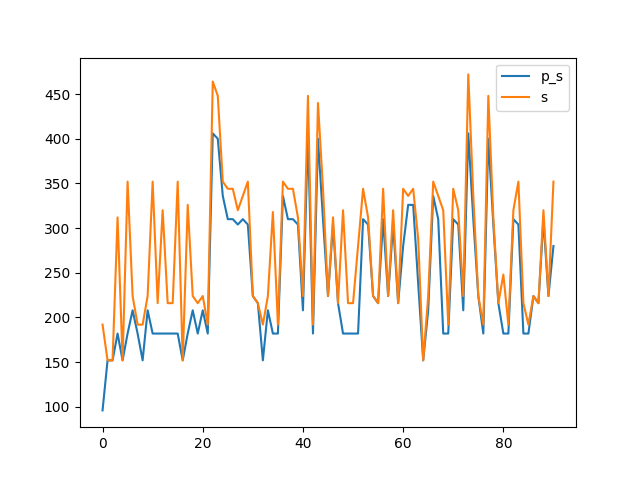
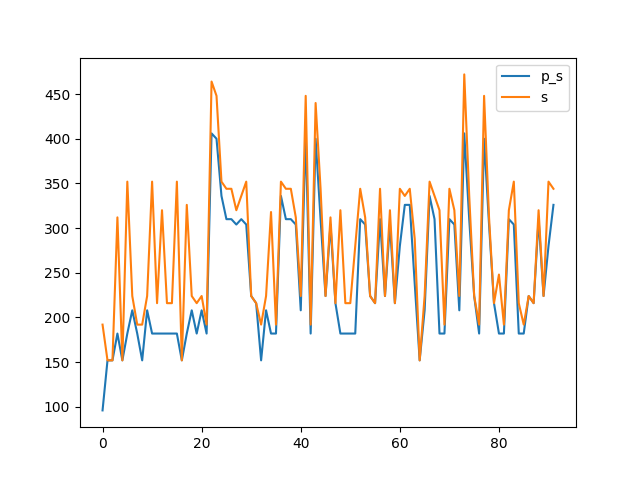
0x005B

diff --git a/benchmark.md b/benchmark.md
@@ -180,16 +180,18 @@ Synthesising 0x0059 pexact:224 r=3 exact:224 r=3
 
 Synthesising 0x005A pexact:280 r=4 exact:352 r=4
 
+Synthesising 0x005B pexact:326 r=5 exact:344 r=4
+
 ```mermaid
 xychart-beta
     title "Comparison powertwoexact twoexact"
-    x-axis [0, 1, 2, 3, 4, 5, 6, 7, 8, 9, 10, 11, 12, 13, 14, 15, 16, 17, 18, 19, 20, 21, 22, 23, 24, 25, 26, 27, 28, 29, 30, 31, 32, 33, 34, 35, 36, 37, 38, 39, 40, 41, 42, 43, 44, 45, 46, 47, 48, 49, 50, 51, 52, 53, 54, 55, 56, 57, 58, 59, 60, 61, 62, 63, 64, 65, 66, 67, 68, 69, 70, 71, 72, 73, 74, 75, 76, 77, 78, 79, 80, 81, 82, 83, 84, 85, 86, 87, 88, 89, 90]
+    x-axis [0, 1, 2, 3, 4, 5, 6, 7, 8, 9, 10, 11, 12, 13, 14, 15, 16, 17, 18, 19, 20, 21, 22, 23, 24, 25, 26, 27, 28, 29, 30, 31, 32, 33, 34, 35, 36, 37, 38, 39, 40, 41, 42, 43, 44, 45, 46, 47, 48, 49, 50, 51, 52, 53, 54, 55, 56, 57, 58, 59, 60, 61, 62, 63, 64, 65, 66, 67, 68, 69, 70, 71, 72, 73, 74, 75, 76, 77, 78, 79, 80, 81, 82, 83, 84, 85, 86, 87, 88, 89, 90, 91]
     y-axis "Switching Activity" 0-->472
-    line [96, 152, 152, 182, 152, 182, 208, 182, 152, 208, 182, 182, 182, 182, 182, 182, 152, 182, 208, 182, 208, 182, 406, 400, 336, 310, 310, 304, 310, 304, 224, 216, 152, 208, 182, 182, 336, 310, 310, 304, 208, 406, 182, 400, 310, 224, 304, 216, 182, 182, 182, 182, 310, 304, 224, 216, 310, 224, 304, 216, 280, 326, 326, 238, 152, 208, 336, 310, 182, 182, 310, 304, 208, 406, 310, 224, 182, 400, 304, 216, 182, 182, 310, 304, 182, 182, 224, 216, 310, 224, 280]
-    line [192, 152, 152, 312, 152, 352, 224, 192, 192, 224, 352, 216, 320, 216, 216, 352, 152, 326, 224, 216, 224, 192, 464, 448, 352, 344, 344, 320, 336, 352, 224, 216, 192, 224, 318, 192, 352, 344, 344, 312, 224, 448, 192, 440, 344, 224, 312, 216, 320, 216, 216, 280, 344, 312, 224, 216, 344, 224, 320, 216, 344, 336, 344, 288, 152, 224, 352, 336, 320, 192, 344, 320, 224, 472, 336, 224, 192, 448, 312, 216, 248, 192, 320, 352, 216, 192, 224, 216, 320, 224, 352]
-    line [242.43956043956044, 242.43956043956044, 242.43956043956044, 242.43956043956044, 242.43956043956044, 242.43956043956044, 242.43956043956044, 242.43956043956044, 242.43956043956044, 242.43956043956044, 242.43956043956044, 242.43956043956044, 242.43956043956044, 242.43956043956044, 242.43956043956044, 242.43956043956044, 242.43956043956044, 242.43956043956044, 242.43956043956044, 242.43956043956044, 242.43956043956044, 242.43956043956044, 242.43956043956044, 242.43956043956044, 242.43956043956044, 242.43956043956044, 242.43956043956044, 242.43956043956044, 242.43956043956044, 242.43956043956044, 242.43956043956044, 242.43956043956044, 242.43956043956044, 242.43956043956044, 242.43956043956044, 242.43956043956044, 242.43956043956044, 242.43956043956044, 242.43956043956044, 242.43956043956044, 242.43956043956044, 242.43956043956044, 242.43956043956044, 242.43956043956044, 242.43956043956044, 242.43956043956044, 242.43956043956044, 242.43956043956044, 242.43956043956044, 242.43956043956044, 242.43956043956044, 242.43956043956044, 242.43956043956044, 242.43956043956044, 242.43956043956044, 242.43956043956044, 242.43956043956044, 242.43956043956044, 242.43956043956044, 242.43956043956044, 242.43956043956044, 242.43956043956044, 242.43956043956044, 242.43956043956044, 242.43956043956044, 242.43956043956044, 242.43956043956044, 242.43956043956044, 242.43956043956044, 242.43956043956044, 242.43956043956044, 242.43956043956044, 242.43956043956044, 242.43956043956044, 242.43956043956044, 242.43956043956044, 242.43956043956044, 242.43956043956044, 242.43956043956044, 242.43956043956044, 242.43956043956044, 242.43956043956044, 242.43956043956044, 242.43956043956044, 242.43956043956044, 242.43956043956044, 242.43956043956044, 242.43956043956044, 242.43956043956044, 242.43956043956044, 242.43956043956044]
-    line [277.9340659340659, 277.9340659340659, 277.9340659340659, 277.9340659340659, 277.9340659340659, 277.9340659340659, 277.9340659340659, 277.9340659340659, 277.9340659340659, 277.9340659340659, 277.9340659340659, 277.9340659340659, 277.9340659340659, 277.9340659340659, 277.9340659340659, 277.9340659340659, 277.9340659340659, 277.9340659340659, 277.9340659340659, 277.9340659340659, 277.9340659340659, 277.9340659340659, 277.9340659340659, 277.9340659340659, 277.9340659340659, 277.9340659340659, 277.9340659340659, 277.9340659340659, 277.9340659340659, 277.9340659340659, 277.9340659340659, 277.9340659340659, 277.9340659340659, 277.9340659340659, 277.9340659340659, 277.9340659340659, 277.9340659340659, 277.9340659340659, 277.9340659340659, 277.9340659340659, 277.9340659340659, 277.9340659340659, 277.9340659340659, 277.9340659340659, 277.9340659340659, 277.9340659340659, 277.9340659340659, 277.9340659340659, 277.9340659340659, 277.9340659340659, 277.9340659340659, 277.9340659340659, 277.9340659340659, 277.9340659340659, 277.9340659340659, 277.9340659340659, 277.9340659340659, 277.9340659340659, 277.9340659340659, 277.9340659340659, 277.9340659340659, 277.9340659340659, 277.9340659340659, 277.9340659340659, 277.9340659340659, 277.9340659340659, 277.9340659340659, 277.9340659340659, 277.9340659340659, 277.9340659340659, 277.9340659340659, 277.9340659340659, 277.9340659340659, 277.9340659340659, 277.9340659340659, 277.9340659340659, 277.9340659340659, 277.9340659340659, 277.9340659340659, 277.9340659340659, 277.9340659340659, 277.9340659340659, 277.9340659340659, 277.9340659340659, 277.9340659340659, 277.9340659340659, 277.9340659340659, 277.9340659340659, 277.9340659340659, 277.9340659340659, 277.9340659340659]
-    bar [80, 60, 60, 80, 60, 80, 80, 80, 60, 80, 80, 80, 80, 80, 80, 80, 60, 80, 80, 80, 80, 80, 120, 120, 100, 100, 100, 100, 100, 100, 60, 60, 60, 80, 80, 80, 100, 100, 100, 100, 80, 120, 80, 120, 100, 60, 100, 60, 80, 80, 80, 80, 100, 100, 60, 60, 100, 60, 100, 60, 80, 100, 100, 100, 60, 80, 100, 100, 80, 80, 100, 100, 80, 120, 100, 60, 80, 120, 100, 60, 80, 80, 100, 100, 80, 80, 60, 60, 100, 60, 80]
-    bar [80, 60, 60, 80, 60, 80, 60, 60, 60, 60, 80, 60, 80, 60, 60, 80, 60, 80, 60, 60, 60, 60, 100, 100, 80, 80, 80, 80, 80, 80, 60, 60, 60, 60, 80, 60, 80, 80, 80, 80, 60, 100, 60, 100, 80, 60, 80, 60, 80, 60, 60, 80, 80, 80, 60, 60, 80, 60, 80, 60, 80, 80, 80, 80, 60, 60, 80, 80, 80, 60, 80, 80, 60, 100, 80, 60, 60, 100, 80, 60, 80, 60, 80, 80, 60, 80, 60, 60, 80, 60, 80]
+    line [96, 152, 152, 182, 152, 182, 208, 182, 152, 208, 182, 182, 182, 182, 182, 182, 152, 182, 208, 182, 208, 182, 406, 400, 336, 310, 310, 304, 310, 304, 224, 216, 152, 208, 182, 182, 336, 310, 310, 304, 208, 406, 182, 400, 310, 224, 304, 216, 182, 182, 182, 182, 310, 304, 224, 216, 310, 224, 304, 216, 280, 326, 326, 238, 152, 208, 336, 310, 182, 182, 310, 304, 208, 406, 310, 224, 182, 400, 304, 216, 182, 182, 310, 304, 182, 182, 224, 216, 310, 224, 280, 326]
+    line [192, 152, 152, 312, 152, 352, 224, 192, 192, 224, 352, 216, 320, 216, 216, 352, 152, 326, 224, 216, 224, 192, 464, 448, 352, 344, 344, 320, 336, 352, 224, 216, 192, 224, 318, 192, 352, 344, 344, 312, 224, 448, 192, 440, 344, 224, 312, 216, 320, 216, 216, 280, 344, 312, 224, 216, 344, 224, 320, 216, 344, 336, 344, 288, 152, 224, 352, 336, 320, 192, 344, 320, 224, 472, 336, 224, 192, 448, 312, 216, 248, 192, 320, 352, 216, 192, 224, 216, 320, 224, 352, 344]
+    line [243.34782608695653, 243.34782608695653, 243.34782608695653, 243.34782608695653, 243.34782608695653, 243.34782608695653, 243.34782608695653, 243.34782608695653, 243.34782608695653, 243.34782608695653, 243.34782608695653, 243.34782608695653, 243.34782608695653, 243.34782608695653, 243.34782608695653, 243.34782608695653, 243.34782608695653, 243.34782608695653, 243.34782608695653, 243.34782608695653, 243.34782608695653, 243.34782608695653, 243.34782608695653, 243.34782608695653, 243.34782608695653, 243.34782608695653, 243.34782608695653, 243.34782608695653, 243.34782608695653, 243.34782608695653, 243.34782608695653, 243.34782608695653, 243.34782608695653, 243.34782608695653, 243.34782608695653, 243.34782608695653, 243.34782608695653, 243.34782608695653, 243.34782608695653, 243.34782608695653, 243.34782608695653, 243.34782608695653, 243.34782608695653, 243.34782608695653, 243.34782608695653, 243.34782608695653, 243.34782608695653, 243.34782608695653, 243.34782608695653, 243.34782608695653, 243.34782608695653, 243.34782608695653, 243.34782608695653, 243.34782608695653, 243.34782608695653, 243.34782608695653, 243.34782608695653, 243.34782608695653, 243.34782608695653, 243.34782608695653, 243.34782608695653, 243.34782608695653, 243.34782608695653, 243.34782608695653, 243.34782608695653, 243.34782608695653, 243.34782608695653, 243.34782608695653, 243.34782608695653, 243.34782608695653, 243.34782608695653, 243.34782608695653, 243.34782608695653, 243.34782608695653, 243.34782608695653, 243.34782608695653, 243.34782608695653, 243.34782608695653, 243.34782608695653, 243.34782608695653, 243.34782608695653, 243.34782608695653, 243.34782608695653, 243.34782608695653, 243.34782608695653, 243.34782608695653, 243.34782608695653, 243.34782608695653, 243.34782608695653, 243.34782608695653, 243.34782608695653, 243.34782608695653]
+    line [278.6521739130435, 278.6521739130435, 278.6521739130435, 278.6521739130435, 278.6521739130435, 278.6521739130435, 278.6521739130435, 278.6521739130435, 278.6521739130435, 278.6521739130435, 278.6521739130435, 278.6521739130435, 278.6521739130435, 278.6521739130435, 278.6521739130435, 278.6521739130435, 278.6521739130435, 278.6521739130435, 278.6521739130435, 278.6521739130435, 278.6521739130435, 278.6521739130435, 278.6521739130435, 278.6521739130435, 278.6521739130435, 278.6521739130435, 278.6521739130435, 278.6521739130435, 278.6521739130435, 278.6521739130435, 278.6521739130435, 278.6521739130435, 278.6521739130435, 278.6521739130435, 278.6521739130435, 278.6521739130435, 278.6521739130435, 278.6521739130435, 278.6521739130435, 278.6521739130435, 278.6521739130435, 278.6521739130435, 278.6521739130435, 278.6521739130435, 278.6521739130435, 278.6521739130435, 278.6521739130435, 278.6521739130435, 278.6521739130435, 278.6521739130435, 278.6521739130435, 278.6521739130435, 278.6521739130435, 278.6521739130435, 278.6521739130435, 278.6521739130435, 278.6521739130435, 278.6521739130435, 278.6521739130435, 278.6521739130435, 278.6521739130435, 278.6521739130435, 278.6521739130435, 278.6521739130435, 278.6521739130435, 278.6521739130435, 278.6521739130435, 278.6521739130435, 278.6521739130435, 278.6521739130435, 278.6521739130435, 278.6521739130435, 278.6521739130435, 278.6521739130435, 278.6521739130435, 278.6521739130435, 278.6521739130435, 278.6521739130435, 278.6521739130435, 278.6521739130435, 278.6521739130435, 278.6521739130435, 278.6521739130435, 278.6521739130435, 278.6521739130435, 278.6521739130435, 278.6521739130435, 278.6521739130435, 278.6521739130435, 278.6521739130435, 278.6521739130435, 278.6521739130435]
+    bar [80, 60, 60, 80, 60, 80, 80, 80, 60, 80, 80, 80, 80, 80, 80, 80, 60, 80, 80, 80, 80, 80, 120, 120, 100, 100, 100, 100, 100, 100, 60, 60, 60, 80, 80, 80, 100, 100, 100, 100, 80, 120, 80, 120, 100, 60, 100, 60, 80, 80, 80, 80, 100, 100, 60, 60, 100, 60, 100, 60, 80, 100, 100, 100, 60, 80, 100, 100, 80, 80, 100, 100, 80, 120, 100, 60, 80, 120, 100, 60, 80, 80, 100, 100, 80, 80, 60, 60, 100, 60, 80, 100]
+    bar [80, 60, 60, 80, 60, 80, 60, 60, 60, 60, 80, 60, 80, 60, 60, 80, 60, 80, 60, 60, 60, 60, 100, 100, 80, 80, 80, 80, 80, 80, 60, 60, 60, 60, 80, 60, 80, 80, 80, 80, 60, 100, 60, 100, 80, 60, 80, 60, 80, 60, 60, 80, 80, 80, 60, 60, 80, 60, 80, 60, 80, 80, 80, 80, 60, 60, 80, 80, 80, 60, 80, 80, 60, 100, 80, 60, 60, 100, 80, 60, 80, 60, 80, 80, 60, 80, 60, 60, 80, 60, 80, 80]
 ```
 
